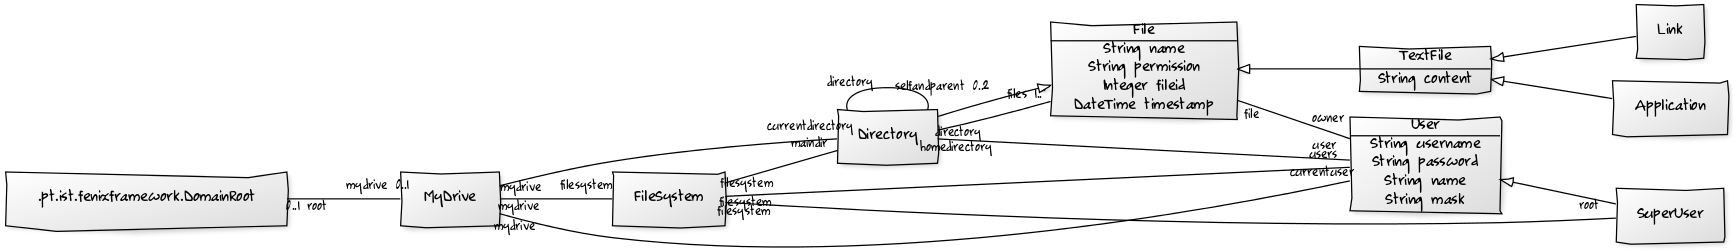
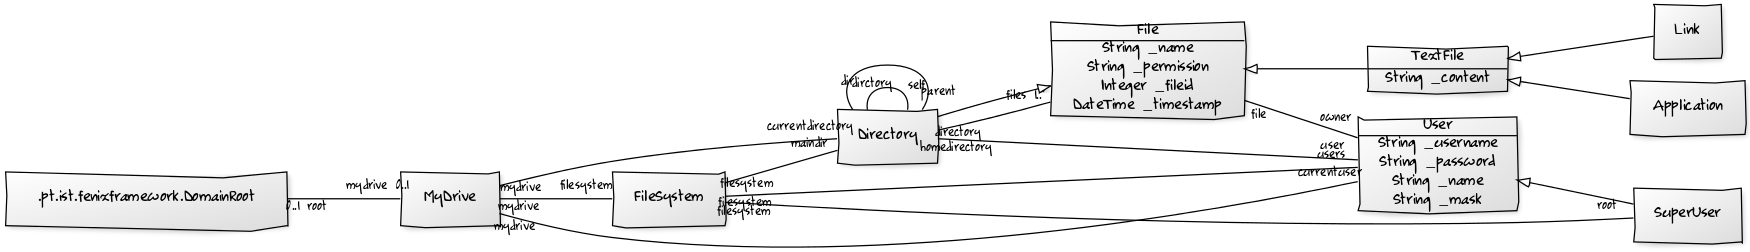
novo dml ja compila

diff --git a/src/main/java/pt/tecnico/mydrive/domain/FileSystem.java b/src/main/java/pt/tecnico/mydrive/domain/FileSystem.java
@@ -1,6 +1,7 @@
 package pt.tecnico.mydrive.domain;
 
 import java.util.*;
+import pt.tecnico.mydrive.exceptions.InvalidFileNameException;
 
 public class FileSystem extends FileSystem_Base {
 
@@ -9,45 +10,45 @@ public class FileSystem extends FileSystem_Base {
     }
 
     public void removeFile(String path, Directory maindir) throws InvalidFileNameException{
-		
-		String[] tokens = path.split("/");
-		
+
+		String[] token = path.split("/");
+    int i;
 		Directory aux = maindir;
-		
-		for(int i=0; i<result.length-1; i++){
-			
+
+		for(i=0; i<token.length-1; i++){
+
 			for (File file: aux.getFilesSet()){
-				
-				if (file.getName().equals(token[i])){
-					
+
+				if (file.get_name().equals(token[i])){
+
 					aux = (Directory) file;
 				}
-			
+
 			}
-			
-		
+
+
 		}
-		
+
 		for (File file: aux.getFilesSet()){
-				
-				if (file.getName().equals(token[i+1])){
-					
+
+				if (file.get_name().equals(token[i+1])){
+
 					file.remove();
 				}
 				else{
-					
-					throw new InvalidFileNameException(token[i+1]);}
-			
-		}
-		
-	}
-		
-		
-		
-		
-		
 
- 
+					throw new InvalidFileNameException(token[i+1]);}
+
+		}
+
+	}
+
+
+
+
+
+
+
 
   /*  public String list_Files(String path, Directory maindir){
 
